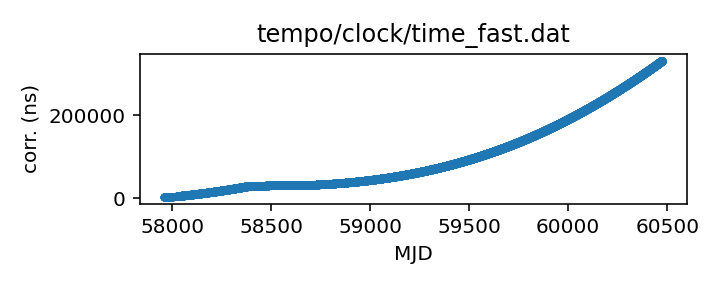
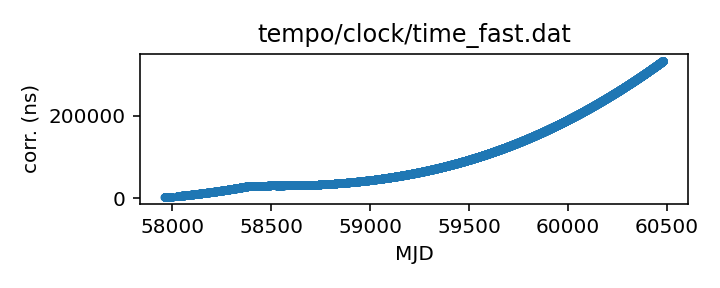
Routine gh-pages update from Github action Fri Jun 21 20:30:27 UTC 2024

diff --git a/status.md b/status.md
@@ -13,18 +13,18 @@ name of each clock file links to a page with more details.
 
 | Name | File | Corrections start | Corrections end | Last check date | Last check result 
 |:--- |:--- | --- | --- | --- |:--- 
-| [GPS to UTC](T2runtime/clock/gps2utc.clk.html) | `T2runtime/clock/gps2utc.clk` | 1993-01-01 MJD 48988.0 | 2024-04-29 MJD 60429.0 | 2024-06-20 | Unchanged 
-| [GPS to UTC (Combined Clock)](T2runtime/clock/gps2utc_cc.clk.html) | `T2runtime/clock/gps2utc_cc.clk` | 1993-01-01 MJD 48988.0 | 2024-04-29 MJD 60429.0 | 2024-06-20 | Unchanged 
-| [GPS to UTC (Corrected)](T2runtime/clock/gps2utc_c0p.clk.html) | `T2runtime/clock/gps2utc_c0p.clk` | 2010-12-29 MJD 55559.0 | 2024-04-29 MJD 60429.0 | 2024-06-20 | Unchanged 
-| [GBT](tempo/clock/time_gbt.dat.html) | `tempo/clock/time_gbt.dat` | 2000-12-31 MJD 51909.5 | 2024-05-18 MJD 60448.5 | 2024-06-20 | **Validation failed** 
+| [GPS to UTC](T2runtime/clock/gps2utc.clk.html) | `T2runtime/clock/gps2utc.clk` | 1993-01-01 MJD 48988.0 | 2024-04-29 MJD 60429.0 | 2024-06-21 | Unchanged 
+| [GPS to UTC (Combined Clock)](T2runtime/clock/gps2utc_cc.clk.html) | `T2runtime/clock/gps2utc_cc.clk` | 1993-01-01 MJD 48988.0 | 2024-04-29 MJD 60429.0 | 2024-06-21 | Unchanged 
+| [GPS to UTC (Corrected)](T2runtime/clock/gps2utc_c0p.clk.html) | `T2runtime/clock/gps2utc_c0p.clk` | 2010-12-29 MJD 55559.0 | 2024-04-29 MJD 60429.0 | 2024-06-21 | Unchanged 
+| [GBT](tempo/clock/time_gbt.dat.html) | `tempo/clock/time_gbt.dat` | 2000-12-31 MJD 51909.5 | 2024-05-18 MJD 60448.5 | 2024-06-21 | **Validation failed** 
 | [GBT (TEMPO2 converted from TEMPO)](T2runtime/clock/gbt2gps.clk.html) | `T2runtime/clock/gbt2gps.clk` | 2000-12-31 MJD 51909.5 | 2024-05-18 MJD 60448.5 | 2024-05-19 | Updated 
-| [Jodrell Bank](T2runtime/clock/jb2gps.clk.html) | `T2runtime/clock/jb2gps.clk` | 2006-10-13 MJD 54021.4 | 2023-12-04 MJD 60282.0 | 2024-06-14 | Unchanged 
-| [Jodrell Bank Roach](T2runtime/clock/jbroach2jb.clk.html) | `T2runtime/clock/jbroach2jb.clk` | 2006-10-13 MJD 54021.4 | 2018-03-20 MJD 58197.6 | 2024-06-14 | Unchanged 
-| [Jodrell Bank DFB](T2runtime/clock/jbdfb2jb.clk.html) | `T2runtime/clock/jbdfb2jb.clk` | 2006-10-13 MJD 54021.4 | 2017-05-11 MJD 57884.0 | 2024-06-14 | Unchanged 
-| [Meerkat (observatory)](T2runtime/clock/mk2utc_observatory.clk.html) | `T2runtime/clock/mk2utc_observatory.clk` | 2019-01-01 MJD 58484.0 | 2024-04-24 MJD 60425.0 | 2024-06-14 | Unchanged 
-| [Leap seconds](tempo/clock/leap.sec.html) | `tempo/clock/leap.sec` | 1972-07-01 MJD 41499.0 | 2017-01-01 MJD 57754.0 | 2024-06-20 | Unchanged 
-| [UT1 table](tempo/clock/ut1.dat.html) | `tempo/clock/ut1.dat` | 1973-01-02 MJD 41684.0 | 2025-06-28 MJD 60854.0 | 2024-06-20 | Updated 
-| [UT1 table](T2runtime/clock/ut1.dat.html) | `T2runtime/clock/ut1.dat` | 1973-01-02 MJD 41684.0 | 2025-06-28 MJD 60854.0 | 2024-06-20 | Updated 
+| [Jodrell Bank](T2runtime/clock/jb2gps.clk.html) | `T2runtime/clock/jb2gps.clk` | 2006-10-13 MJD 54021.4 | 2023-12-04 MJD 60282.0 | 2024-06-21 | Unchanged 
+| [Jodrell Bank Roach](T2runtime/clock/jbroach2jb.clk.html) | `T2runtime/clock/jbroach2jb.clk` | 2006-10-13 MJD 54021.4 | 2018-03-20 MJD 58197.6 | 2024-06-21 | Unchanged 
+| [Jodrell Bank DFB](T2runtime/clock/jbdfb2jb.clk.html) | `T2runtime/clock/jbdfb2jb.clk` | 2006-10-13 MJD 54021.4 | 2017-05-11 MJD 57884.0 | 2024-06-21 | Unchanged 
+| [Meerkat (observatory)](T2runtime/clock/mk2utc_observatory.clk.html) | `T2runtime/clock/mk2utc_observatory.clk` | 2019-01-01 MJD 58484.0 | 2024-04-24 MJD 60425.0 | 2024-06-21 | Unchanged 
+| [Leap seconds](tempo/clock/leap.sec.html) | `tempo/clock/leap.sec` | 1972-07-01 MJD 41499.0 | 2017-01-01 MJD 57754.0 | 2024-06-21 | Unchanged 
+| [UT1 table](tempo/clock/ut1.dat.html) | `tempo/clock/ut1.dat` | 1973-01-02 MJD 41684.0 | 2025-06-28 MJD 60854.0 | 2024-06-21 | Unchanged 
+| [UT1 table](T2runtime/clock/ut1.dat.html) | `T2runtime/clock/ut1.dat` | 1973-01-02 MJD 41684.0 | 2025-06-28 MJD 60854.0 | 2024-06-21 | Unchanged 
 
 
 
@@ -67,26 +67,26 @@ name of each clock file links to a page with more details.
 
 | Name | File | Corrections start | Corrections end | Last check date | Last check result 
 |:--- |:--- | --- | --- | --- |:--- 
-| [GPS to UTC (TEMPO2)](T2runtime/clock/gps2utc_tempo2.clk.html) | `T2runtime/clock/gps2utc_tempo2.clk` | 1996-03-27 MJD 50169.0 | 2022-10-27 MJD 59879.0 | 2024-06-14 | **Failed to download** 
-| [GBT (TEMPO2)](T2runtime/clock/gbt2gps_tempo2.clk.html) | `T2runtime/clock/gbt2gps_tempo2.clk` | 2000-12-31 MJD 51909.5 | 2020-02-25 MJD 58904.5 | 2024-06-14 | Unchanged 
-| [Jodrell Bank (TEMPO)](tempo/clock/time_jb.dat.html) | `tempo/clock/time_jb.dat` | 2006-10-13 MJD 54021.4 | 2019-05-13 MJD 58616.2 | 2024-06-14 | Unchanged 
-| [VLA](tempo/clock/time_vla.dat.html) | `tempo/clock/time_vla.dat` | 1990-10-27 MJD 48191.2 | 2021-03-07 MJD 59280.5 | 2024-06-14 | Unchanged 
-| [VLA (TEMPO2)](T2runtime/clock/vla2gps.clk.html) | `T2runtime/clock/vla2gps.clk` | 2015-02-01 MJD 57054.6 | 2021-03-07 MJD 59280.5 | 2024-06-14 | Unchanged 
-| [VLA to NIST](T2runtime/clock/vla2nist.clk.html) | `T2runtime/clock/vla2nist.clk` | 1990-10-27 MJD 48191.2 | 1993-11-13 MJD 49304.0 | 2024-06-14 | Unchanged 
-| [FAST](tempo/clock/time_fast.dat.html) | `tempo/clock/time_fast.dat` | 2017-07-27 MJD 57961.0 | 2024-06-12 MJD 60474.0 | 2024-06-14 | Updated 
-| [WSRT](T2runtime/clock/wsrt2gps.clk.html) | `T2runtime/clock/wsrt2gps.clk` | 1999-01-01 MJD 51179.5 | 2015-06-29 MJD 57202.1 | 2024-06-14 | Unchanged 
-| [WSRT (TEMPO)](tempo/clock/time_wsrt.dat.html) | `tempo/clock/time_wsrt.dat` | 1987-07-24 MJD 47000.0 | 2007-12-24 MJD 54458.0 | 2024-06-14 | **Validation failed** 
-| [Parkes](T2runtime/clock/pks2gps.clk.html) | `T2runtime/clock/pks2gps.clk` | 1858-11-17 MJD 0.0 | 2024-04-30 MJD 60430.1 | 2024-06-14 | Unchanged 
-| [Parkes (TEMPO)](tempo/clock/time_pks.dat.html) | `tempo/clock/time_pks.dat` | 1979-05-07 MJD 44000.0 | 2011-07-03 MJD 55745.8 | 2024-06-14 | **Validation failed** 
-| [SRT](T2runtime/clock/srt2gps.clk.html) | `T2runtime/clock/srt2gps.clk` | 2013-03-20 MJD 56371.0 | 2019-12-11 MJD 58828.0 | 2024-06-14 | Unchanged 
-| [Effelsberg](T2runtime/clock/eff2gps.clk.html) | `T2runtime/clock/eff2gps.clk` | 1993-11-29 MJD 49320.0 | 2015-06-22 MJD 57195.5 | 2024-06-14 | Unchanged 
-| [Effelsberg Asterix/PSRix](T2runtime/clock/effix2gps.clk.html) | `T2runtime/clock/effix2gps.clk` | 2011-01-01 MJD 55562.5 | 2021-03-21 MJD 59294.5 | 2024-06-14 | Unchanged 
-| [LEAP](T2runtime/clock/leap2effix.clk.html) | `T2runtime/clock/leap2effix.clk` | 2012-10-29 MJD 56230.0 | 2014-03-04 MJD 56720.0 | 2024-06-14 | Unchanged 
-| [NUPPI](tempo/clock/time_nuppi.dat.html) | `tempo/clock/time_nuppi.dat` | 2005-03-07 MJD 53436.0 | 2015-11-08 MJD 57334.6 | 2024-06-14 | Unchanged 
-| [Meerkat (TEMPO2)](T2runtime/clock/mk2utc.clk.html) | `T2runtime/clock/mk2utc.clk` | 2019-01-01 MJD 58484.0 | 2023-10-18 MJD 60235.9 | 2024-06-14 | Unchanged 
-| [MOST](T2runtime/clock/mo2gps.clk.html) | `T2runtime/clock/mo2gps.clk` | 2003-12-27 MJD 53000.0 | 2018-09-06 MJD 58367.0 | 2024-06-14 | Unchanged 
-| [Nancay to obspm](T2runtime/clock/ncyobs2obspm.clk.html) | `T2runtime/clock/ncyobs2obspm.clk` | 1988-05-18 MJD 47299.6 | 2023-10-27 MJD 60244.0 | 2024-06-14 | Unchanged 
-| [obspm](T2runtime/clock/obspm2gps.clk.html) | `T2runtime/clock/obspm2gps.clk` | 2003-12-01 MJD 52974.0 | 2023-10-27 MJD 60244.0 | 2024-06-14 | Unchanged 
+| [GPS to UTC (TEMPO2)](T2runtime/clock/gps2utc_tempo2.clk.html) | `T2runtime/clock/gps2utc_tempo2.clk` | 1996-03-27 MJD 50169.0 | 2022-10-27 MJD 59879.0 | 2024-06-21 | **Failed to download** 
+| [GBT (TEMPO2)](T2runtime/clock/gbt2gps_tempo2.clk.html) | `T2runtime/clock/gbt2gps_tempo2.clk` | 2000-12-31 MJD 51909.5 | 2020-02-25 MJD 58904.5 | 2024-06-21 | Unchanged 
+| [Jodrell Bank (TEMPO)](tempo/clock/time_jb.dat.html) | `tempo/clock/time_jb.dat` | 2006-10-13 MJD 54021.4 | 2019-05-13 MJD 58616.2 | 2024-06-21 | Unchanged 
+| [VLA](tempo/clock/time_vla.dat.html) | `tempo/clock/time_vla.dat` | 1990-10-27 MJD 48191.2 | 2021-03-07 MJD 59280.5 | 2024-06-21 | Unchanged 
+| [VLA (TEMPO2)](T2runtime/clock/vla2gps.clk.html) | `T2runtime/clock/vla2gps.clk` | 2015-02-01 MJD 57054.6 | 2021-03-07 MJD 59280.5 | 2024-06-21 | Unchanged 
+| [VLA to NIST](T2runtime/clock/vla2nist.clk.html) | `T2runtime/clock/vla2nist.clk` | 1990-10-27 MJD 48191.2 | 1993-11-13 MJD 49304.0 | 2024-06-21 | Unchanged 
+| [FAST](tempo/clock/time_fast.dat.html) | `tempo/clock/time_fast.dat` | 2017-07-27 MJD 57961.0 | 2024-06-19 MJD 60481.0 | 2024-06-21 | Updated 
+| [WSRT](T2runtime/clock/wsrt2gps.clk.html) | `T2runtime/clock/wsrt2gps.clk` | 1999-01-01 MJD 51179.5 | 2015-06-29 MJD 57202.1 | 2024-06-21 | Unchanged 
+| [WSRT (TEMPO)](tempo/clock/time_wsrt.dat.html) | `tempo/clock/time_wsrt.dat` | 1987-07-24 MJD 47000.0 | 2007-12-24 MJD 54458.0 | 2024-06-21 | **Validation failed** 
+| [Parkes](T2runtime/clock/pks2gps.clk.html) | `T2runtime/clock/pks2gps.clk` | 1858-11-17 MJD 0.0 | 2024-04-30 MJD 60430.1 | 2024-06-21 | Unchanged 
+| [Parkes (TEMPO)](tempo/clock/time_pks.dat.html) | `tempo/clock/time_pks.dat` | 1979-05-07 MJD 44000.0 | 2011-07-03 MJD 55745.8 | 2024-06-21 | **Validation failed** 
+| [SRT](T2runtime/clock/srt2gps.clk.html) | `T2runtime/clock/srt2gps.clk` | 2013-03-20 MJD 56371.0 | 2019-12-11 MJD 58828.0 | 2024-06-21 | Unchanged 
+| [Effelsberg](T2runtime/clock/eff2gps.clk.html) | `T2runtime/clock/eff2gps.clk` | 1993-11-29 MJD 49320.0 | 2015-06-22 MJD 57195.5 | 2024-06-21 | Unchanged 
+| [Effelsberg Asterix/PSRix](T2runtime/clock/effix2gps.clk.html) | `T2runtime/clock/effix2gps.clk` | 2011-01-01 MJD 55562.5 | 2021-03-21 MJD 59294.5 | 2024-06-21 | Unchanged 
+| [LEAP](T2runtime/clock/leap2effix.clk.html) | `T2runtime/clock/leap2effix.clk` | 2012-10-29 MJD 56230.0 | 2014-03-04 MJD 56720.0 | 2024-06-21 | Unchanged 
+| [NUPPI](tempo/clock/time_nuppi.dat.html) | `tempo/clock/time_nuppi.dat` | 2005-03-07 MJD 53436.0 | 2015-11-08 MJD 57334.6 | 2024-06-21 | Unchanged 
+| [Meerkat (TEMPO2)](T2runtime/clock/mk2utc.clk.html) | `T2runtime/clock/mk2utc.clk` | 2019-01-01 MJD 58484.0 | 2023-10-18 MJD 60235.9 | 2024-06-21 | Unchanged 
+| [MOST](T2runtime/clock/mo2gps.clk.html) | `T2runtime/clock/mo2gps.clk` | 2003-12-27 MJD 53000.0 | 2018-09-06 MJD 58367.0 | 2024-06-21 | Unchanged 
+| [Nancay to obspm](T2runtime/clock/ncyobs2obspm.clk.html) | `T2runtime/clock/ncyobs2obspm.clk` | 1988-05-18 MJD 47299.6 | 2023-10-27 MJD 60244.0 | 2024-06-21 | Unchanged 
+| [obspm](T2runtime/clock/obspm2gps.clk.html) | `T2runtime/clock/obspm2gps.clk` | 2003-12-01 MJD 52974.0 | 2023-10-27 MJD 60244.0 | 2024-06-21 | Unchanged 
 
 
 ### Further information:

diff --git a/tempo/clock/time_pks.dat.md b/tempo/clock/time_pks.dat.md
@@ -20,12 +20,11 @@ telescopes in the same file, distinguished only by observatory code.
 | Clock file start | 1979-05-07 MJD 44000.0 |
 | Clock file end | 2011-07-03 MJD 55745.8 |
 | Update interval (days) | 7 |
-| Last update attempt | 2024-06-14 |
+| Last update attempt | 2024-06-21 |
 | Last update result | Validation failed |
 
 Log entries from the last few update attempts:
 ```
-2024-03-28 20:29:38.584 - Validation failed: Unable to read new version of tempo/clock/time_pks.dat: Clock file /tmp/astropy-download-1896-_vjbhals appears to be out of order: 49959.0 > 49958.0
 2024-04-04 20:29:35.826 - Validation failed: Unable to read new version of tempo/clock/time_pks.dat: Clock file /tmp/astropy-download-1911-3h73zqv4 appears to be out of order: 49959.0 > 49958.0
 2024-04-11 20:29:34.676 - Validation failed: Unable to read new version of tempo/clock/time_pks.dat: Clock file /tmp/astropy-download-1801-4xgnkiau appears to be out of order: 49959.0 > 49958.0
 2024-04-18 20:29:38.673 - Validation failed: Unable to read new version of tempo/clock/time_pks.dat: Clock file /tmp/astropy-download-1796-c9s0ts7i appears to be out of order: 49959.0 > 49958.0
@@ -35,6 +34,7 @@ Log entries from the last few update attempts:
 2024-05-31 20:29:34.723 - Validation failed: Unable to read new version of tempo/clock/time_pks.dat: Clock file /tmp/astropy-download-1808-9uv0anl1 appears to be out of order: 49959.0 > 49958.0
 2024-06-07 20:29:32.720 - Validation failed: Unable to read new version of tempo/clock/time_pks.dat: Clock file /tmp/astropy-download-1810-bf_kz8b_ appears to be out of order: 49959.0 > 49958.0
 2024-06-14 20:29:51.890 - Validation failed: Unable to read new version of tempo/clock/time_pks.dat: Clock file /tmp/astropy-download-1801-tisulijr appears to be out of order: 49959.0 > 49958.0
+2024-06-21 20:29:55.211 - Validation failed: Unable to read new version of tempo/clock/time_pks.dat: Clock file /tmp/astropy-download-1818-a0_m0tm6 appears to be out of order: 49959.0 > 49958.0
 ```
 [Full log](https://raw.githubusercontent.com/ipta/pulsar-clock-corrections/main/log/tempo/clock/time_pks.dat.log)
 

diff --git a/tempo/clock/time_wsrt.dat.md b/tempo/clock/time_wsrt.dat.md
@@ -20,12 +20,11 @@ should be the same information.
 | Clock file start | 1987-07-24 MJD 47000.0 |
 | Clock file end | 2007-12-24 MJD 54458.0 |
 | Update interval (days) | 7 |
-| Last update attempt | 2024-06-14 |
+| Last update attempt | 2024-06-21 |
 | Last update result | Validation failed |
 
 Log entries from the last few update attempts:
 ```
-2024-03-28 20:29:34.065 - Validation failed: Unable to read new version of tempo/clock/time_wsrt.dat: Clock file /tmp/astropy-download-1896-xbrtefzd appears to be out of order: 53000.05 > 53000.0
 2024-04-04 20:29:30.644 - Validation failed: Unable to read new version of tempo/clock/time_wsrt.dat: Clock file /tmp/astropy-download-1911-2suothm5 appears to be out of order: 53000.05 > 53000.0
 2024-04-11 20:29:29.782 - Validation failed: Unable to read new version of tempo/clock/time_wsrt.dat: Clock file /tmp/astropy-download-1801-eyxtozmn appears to be out of order: 53000.05 > 53000.0
 2024-04-18 20:29:33.818 - Validation failed: Unable to read new version of tempo/clock/time_wsrt.dat: Clock file /tmp/astropy-download-1796-uswo2pn9 appears to be out of order: 53000.05 > 53000.0
@@ -35,6 +34,7 @@ Log entries from the last few update attempts:
 2024-05-31 20:29:29.819 - Validation failed: Unable to read new version of tempo/clock/time_wsrt.dat: Clock file /tmp/astropy-download-1808-s7arrwqh appears to be out of order: 53000.05 > 53000.0
 2024-06-07 20:29:27.848 - Validation failed: Unable to read new version of tempo/clock/time_wsrt.dat: Clock file /tmp/astropy-download-1810-vr839f9d appears to be out of order: 53000.05 > 53000.0
 2024-06-14 20:29:48.546 - Validation failed: Unable to read new version of tempo/clock/time_wsrt.dat: Clock file /tmp/astropy-download-1801-gxdcwqox appears to be out of order: 53000.05 > 53000.0
+2024-06-21 20:29:50.513 - Validation failed: Unable to read new version of tempo/clock/time_wsrt.dat: Clock file /tmp/astropy-download-1818-gztup1ud appears to be out of order: 53000.05 > 53000.0
 ```
 [Full log](https://raw.githubusercontent.com/ipta/pulsar-clock-corrections/main/log/tempo/clock/time_wsrt.dat.log)
 

diff --git a/tempo/clock/time_gbt.dat.md b/tempo/clock/time_gbt.dat.md
@@ -33,12 +33,11 @@ If questions arise, contact Ryan S. Lynch <rlynch@nrao.edu>.
 | Clock file start | 2000-12-31 MJD 51909.5 |
 | Clock file end | 2024-05-18 MJD 60448.5 |
 | Update interval (days) | 1 |
-| Last update attempt | 2024-06-20 |
+| Last update attempt | 2024-06-21 |
 | Last update result | Validation failed |
 
 Log entries from the last few update attempts:
 ```
-2024-06-11 20:29:28.400 - Validation failed: New version of tempo/clock/time_gbt.dat clock corrections differ from old version where they overlap in 11 places
 2024-06-12 20:30:53.174 - Validation failed: New version of tempo/clock/time_gbt.dat clock corrections differ from old version where they overlap in 11 places
 2024-06-13 20:31:19.989 - Validation failed: New version of tempo/clock/time_gbt.dat clock corrections differ from old version where they overlap in 11 places
 2024-06-14 20:29:43.715 - Validation failed: New version of tempo/clock/time_gbt.dat clock corrections differ from old version where they overlap in 11 places
@@ -48,6 +47,7 @@ Log entries from the last few update attempts:
 2024-06-18 20:29:38.668 - Validation failed: New version of tempo/clock/time_gbt.dat clock corrections differ from old version where they overlap in 11 places
 2024-06-19 20:29:22.509 - Validation failed: New version of tempo/clock/time_gbt.dat clock corrections differ from old version where they overlap in 11 places
 2024-06-20 20:29:36.333 - Validation failed: New version of tempo/clock/time_gbt.dat clock corrections differ from old version where they overlap in 11 places
+2024-06-21 20:29:47.195 - Validation failed: New version of tempo/clock/time_gbt.dat clock corrections differ from old version where they overlap in 11 places
 ```
 [Full log](https://raw.githubusercontent.com/ipta/pulsar-clock-corrections/main/log/tempo/clock/time_gbt.dat.log)
 

diff --git a/T2runtime/clock/gps2utc_tempo2.clk.md b/T2runtime/clock/gps2utc_tempo2.clk.md
@@ -27,12 +27,11 @@ are from the column C0').
 | Clock file start | 1996-03-27 MJD 50169.0 |
 | Clock file end | 2022-10-27 MJD 59879.0 |
 | Update interval (days) | 7 |
-| Last update attempt | 2024-06-14 |
+| Last update attempt | 2024-06-21 |
 | Last update result | Failed to download |
 
 Log entries from the last few update attempts:
 ```
-2024-03-28 20:29:07.305 - Unchanged
 2024-04-04 20:29:06.650 - Unchanged
 2024-04-11 20:29:07.692 - Unchanged
 2024-04-18 20:29:11.360 - Unchanged
@@ -42,6 +41,7 @@ Log entries from the last few update attempts:
 2024-05-31 20:29:06.760 - Failed to download: HTTP Error 404: Not Found
 2024-06-07 20:29:04.633 - Failed to download: HTTP Error 404: Not Found
 2024-06-14 20:29:11.087 - Failed to download: HTTP Error 404: Not Found
+2024-06-21 20:29:27.909 - Failed to download: HTTP Error 404: Not Found
 ```
 [Full log](https://raw.githubusercontent.com/ipta/pulsar-clock-corrections/main/log/T2runtime/clock/gps2utc_tempo2.clk.log)
 

diff --git a/tempo/clock/time_fast.dat.md b/tempo/clock/time_fast.dat.md
@@ -14,14 +14,13 @@ This file is pulled from the FAST_ClockFile repository.
 | Format | tempo |
 | Bogus last correction | False |
 | Clock file start | 2017-07-27 MJD 57961.0 |
-| Clock file end | 2024-06-12 MJD 60474.0 |
+| Clock file end | 2024-06-19 MJD 60481.0 |
 | Update interval (days) | 7 |
-| Last update attempt | 2024-06-14 |
+| Last update attempt | 2024-06-21 |
 | Last update result | Updated |
 
 Log entries from the last few update attempts:
 ```
-2024-03-28 20:29:33.443 - Updated
 2024-04-04 20:29:30.240 - Updated
 2024-04-11 20:29:28.783 - Updated
 2024-04-18 20:29:33.141 - Updated
@@ -31,6 +30,7 @@ Log entries from the last few update attempts:
 2024-05-31 20:29:29.072 - Updated
 2024-06-07 20:29:27.480 - Updated
 2024-06-14 20:29:47.904 - Updated
+2024-06-21 20:29:49.947 - Updated
 ```
 [Full log](https://raw.githubusercontent.com/ipta/pulsar-clock-corrections/main/log/tempo/clock/time_fast.dat.log)
 

diff --git a/T2runtime/clock/mk2utc_observatory.clk.md b/T2runtime/clock/mk2utc_observatory.clk.md
@@ -21,12 +21,11 @@ If questions arise, contact Ryan Shannon <rshannon@swin.edu.au>
 | Clock file start | 2019-01-01 MJD 58484.0 |
 | Clock file end | 2024-04-24 MJD 60425.0 |
 | Update interval (days) | 7 |
-| Last update attempt | 2024-06-14 |
+| Last update attempt | 2024-06-21 |
 | Last update result | Unchanged |
 
 Log entries from the last few update attempts:
 ```
-2024-03-28 20:29:51.405 - Unchanged
 2024-04-04 20:29:44.899 - Unchanged
 2024-04-11 20:29:40.709 - Unchanged
 2024-04-18 20:29:46.133 - Updated
@@ -36,6 +35,7 @@ Log entries from the last few update attempts:
 2024-05-31 20:29:41.668 - Unchanged
 2024-06-07 20:29:36.289 - Unchanged
 2024-06-14 20:29:57.559 - Unchanged
+2024-06-21 20:29:58.849 - Unchanged
 ```
 [Full log](https://raw.githubusercontent.com/ipta/pulsar-clock-corrections/main/log/T2runtime/clock/mk2utc_observatory.clk.log)
 

diff --git a/T2runtime/clock/gps2utc_c0p.clk.md b/T2runtime/clock/gps2utc_c0p.clk.md
@@ -30,12 +30,11 @@ about the BIPM's published corrections, contact <tai@bipm.org>.
 | Clock file start | 2010-12-29 MJD 55559.0 |
 | Clock file end | 2024-04-29 MJD 60429.0 |
 | Update interval (days) | 1 |
-| Last update attempt | 2024-06-20 |
+| Last update attempt | 2024-06-21 |
 | Last update result | Unchanged |
 
 Log entries from the last few update attempts:
 ```
-2024-06-11 20:29:28.083 - Unchanged
 2024-06-12 20:30:52.150 - Unchanged
 2024-06-13 20:31:19.562 - Unchanged
 2024-06-14 20:29:42.526 - Unchanged
@@ -45,6 +44,7 @@ Log entries from the last few update attempts:
 2024-06-18 20:29:38.287 - Unchanged
 2024-06-19 20:29:22.110 - Unchanged
 2024-06-20 20:29:35.502 - Unchanged
+2024-06-21 20:29:46.863 - Unchanged
 ```
 [Full log](https://raw.githubusercontent.com/ipta/pulsar-clock-corrections/main/log/T2runtime/clock/gps2utc_c0p.clk.log)
 

diff --git a/T2runtime/clock/gps2utc_cc.clk.md b/T2runtime/clock/gps2utc_cc.clk.md
@@ -29,12 +29,11 @@ about the BIPM's published corrections, contact <tai@bipm.org>.
 | Clock file start | 1993-01-01 MJD 48988.0 |
 | Clock file end | 2024-04-29 MJD 60429.0 |
 | Update interval (days) | 1 |
-| Last update attempt | 2024-06-20 |
+| Last update attempt | 2024-06-21 |
 | Last update result | Unchanged |
 
 Log entries from the last few update attempts:
 ```
-2024-06-11 20:29:28.072 - Unchanged
 2024-06-12 20:30:52.139 - Unchanged
 2024-06-13 20:31:19.551 - Unchanged
 2024-06-14 20:29:42.515 - Unchanged
@@ -44,6 +43,7 @@ Log entries from the last few update attempts:
 2024-06-18 20:29:38.276 - Unchanged
 2024-06-19 20:29:22.096 - Unchanged
 2024-06-20 20:29:35.491 - Unchanged
+2024-06-21 20:29:46.851 - Unchanged
 ```
 [Full log](https://raw.githubusercontent.com/ipta/pulsar-clock-corrections/main/log/T2runtime/clock/gps2utc_cc.clk.log)
 

diff --git a/T2runtime/clock/gps2utc.clk.md b/T2runtime/clock/gps2utc.clk.md
@@ -32,12 +32,11 @@ about the BIPM's published corrections, contact <tai@bipm.org>.
 | Clock file start | 1993-01-01 MJD 48988.0 |
 | Clock file end | 2024-04-29 MJD 60429.0 |
 | Update interval (days) | 1 |
-| Last update attempt | 2024-06-20 |
+| Last update attempt | 2024-06-21 |
 | Last update result | Unchanged |
 
 Log entries from the last few update attempts:
 ```
-2024-06-11 20:29:28.044 - Unchanged
 2024-06-12 20:30:52.110 - Unchanged
 2024-06-13 20:31:19.523 - Unchanged
 2024-06-14 20:29:42.488 - Unchanged
@@ -47,6 +46,7 @@ Log entries from the last few update attempts:
 2024-06-18 20:29:38.248 - Unchanged
 2024-06-19 20:29:22.063 - Unchanged
 2024-06-20 20:29:35.464 - Unchanged
+2024-06-21 20:29:46.823 - Unchanged
 ```
 [Full log](https://raw.githubusercontent.com/ipta/pulsar-clock-corrections/main/log/T2runtime/clock/gps2utc.clk.log)
 

diff --git a/T2runtime/clock/ut1.dat.md b/T2runtime/clock/ut1.dat.md
@@ -30,12 +30,11 @@ If there are any questions, contact Anne Archibald
 | File start | 1973-01-02 MJD 41684.0 |
 | File end | 2025-06-28 MJD 60854.0 |
 | Update interval (days) | 0 |
-| Last update attempt | 2024-06-20 |
-| Last update result | Updated |
+| Last update attempt | 2024-06-21 |
+| Last update result | Unchanged |
 
 Log entries from the last few update attempts:
 ```
-2024-06-11 20:29:38.065 - Unchanged
 2024-06-12 20:31:06.524 - Unchanged
 2024-06-13 20:31:28.743 - Updated
 2024-06-14 20:30:22.205 - Unchanged
@@ -45,5 +44,6 @@ Log entries from the last few update attempts:
 2024-06-18 20:29:47.333 - Unchanged
 2024-06-19 20:29:30.504 - Unchanged
 2024-06-20 20:29:48.666 - Updated
+2024-06-21 20:30:07.245 - Unchanged
 ```
 [Full log](https://raw.githubusercontent.com/ipta/pulsar-clock-corrections/main/log/T2runtime/clock/ut1.dat.log)

diff --git a/T2runtime/clock/ncyobs2obspm.clk.md b/T2runtime/clock/ncyobs2obspm.clk.md
@@ -22,12 +22,11 @@ thus here) can be expected to be somewhat up to date.
 | Clock file start | 1988-05-18 MJD 47299.6 |
 | Clock file end | 2023-10-27 MJD 60244.0 |
 | Update interval (days) | 7 |
-| Last update attempt | 2024-06-14 |
+| Last update attempt | 2024-06-21 |
 | Last update result | Unchanged |
 
 Log entries from the last few update attempts:
 ```
-2024-03-27 20:29:23.306 - Unchanged
 2024-04-03 20:29:22.441 - Unchanged
 2024-04-10 20:29:34.792 - Unchanged
 2024-04-17 20:29:17.628 - Unchanged
@@ -37,6 +36,7 @@ Log entries from the last few update attempts:
 2024-05-31 20:29:42.384 - Unchanged
 2024-06-07 20:29:36.852 - Unchanged
 2024-06-14 20:29:59.398 - Unchanged
+2024-06-21 20:29:59.359 - Unchanged
 ```
 [Full log](https://raw.githubusercontent.com/ipta/pulsar-clock-corrections/main/log/T2runtime/clock/ncyobs2obspm.clk.log)
 
